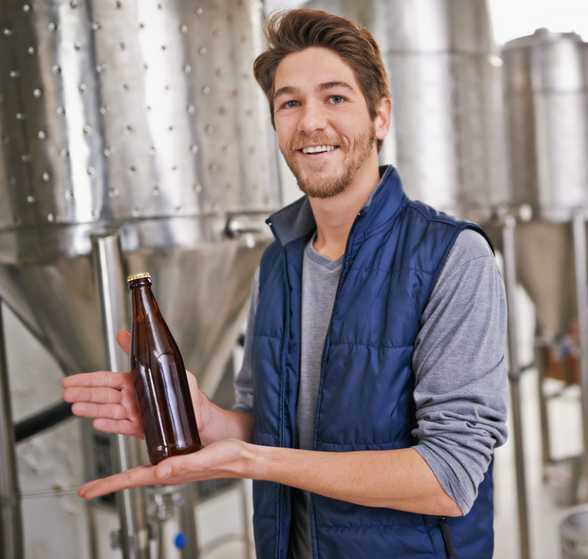
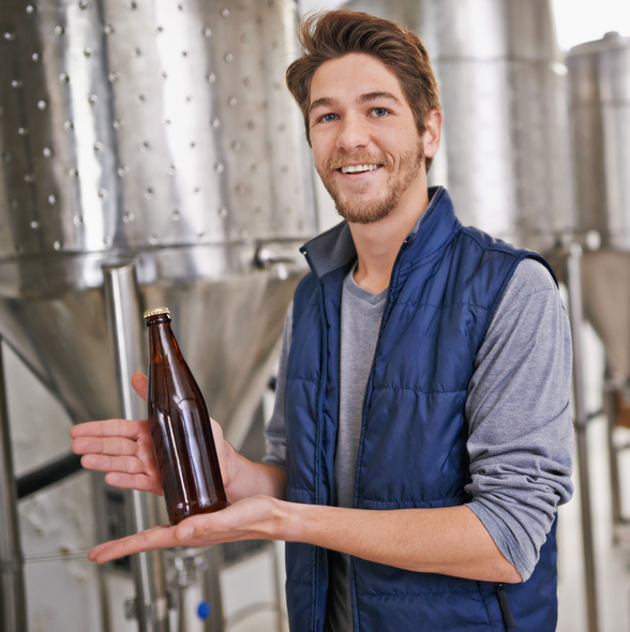
корректировка согласно замечаний заказчика пп. 1,2

diff --git a/assets/main.css b/assets/main.css
@@ -196,7 +196,7 @@ color: #b0a39f;
 }
 
 
-.content-small {width: 1200px;margin: 0 auto;/* border: 1px solid rgba(0, 0, 255, 0); */}
+.content-small {width: 1265px;margin: 0 auto;/* border: 1px solid rgba(0, 0, 255, 0); */}
 
 .page-img p{
 font-size: 96px;
@@ -256,10 +256,11 @@ line-height: 34px;
 
 .block-img {
 margin-top: 50px;
+padding-left: 17px;
 }
 
 .block-img  img{
-width: 270px;
+width: 285px;
 height: 410px;
 margin: 10px;
 }
@@ -336,7 +337,7 @@ width: 1200px;
 .img1 {
 position:absolute;
 top: 31px;
-left: -9px;
+left: 0;
 }
 
 .img2 {
@@ -376,13 +377,13 @@ margin: 40px auto;
 }
 
 .costing {
-width: 1200px;
+width: 1265px;
 height: 600px;
 background: bisque;
 }
 
 .costing section {
-width: 430px;
+width: 463px;
 height: 420px;
 background: #f1a217;
 padding: 90px 85px;
@@ -426,7 +427,7 @@ border-radius: 5px;
 line-height: 60px;
 box-shadow: -5px 5px 2px rgba(176, 97, 0, 0.32);
 position: absolute;
-bottom: 90px;
+bottom: 60px;
 left: 185px;
 }
 
@@ -441,7 +442,7 @@ background: #fff;
 }
 
 .costing img{
-width: 600px;
+width: 632px;
 height: 600px;
 }
 
@@ -458,7 +459,8 @@ height: 600px;
 height: 415px;}
 
 .price {
-width: 380px;
+/*width: 380px;*/
+padding-left: 17px;
 height: 270px;
 background: #f1edeb;
 float: left;

diff --git a/main/index.html b/main/index.html
@@ -46,7 +46,7 @@
     </div>
     <div class="collapse navbar-collapse" id="costanswerNavbar">
       <ul class="nav navbar-nav">
-        <li class="active"><a href="#">Home</a></li>
+        <li class="active"><a href="#">HOME</a></li>
         <li><a href="#">ABOUT</a></li>
         <li><a href="#">FEATURES</a></li>
         <li><a href="#">SOLUTIONS</a></li>
@@ -62,8 +62,8 @@
         </li>
       </ul>
       <ul class="nav navbar-nav navbar-right">
-        <li><a ui-sref="authSignup"><span class="glyphicon glyphicon-edit"></span> Signup</a></li>
-        <li><a ui-sref="authLogin"><span class="glyphicon glyphicon-log-in"></span> Login</a></li>
+        <li><a ui-sref="authSignup"><span class="glyphicon glyphicon-edit"></span> SIGNUP</a></li>
+        <li><a ui-sref="authLogin"><span class="glyphicon glyphicon-log-in"></span> LOGIN</a></li>
       </ul>
     </div>
   </div>
